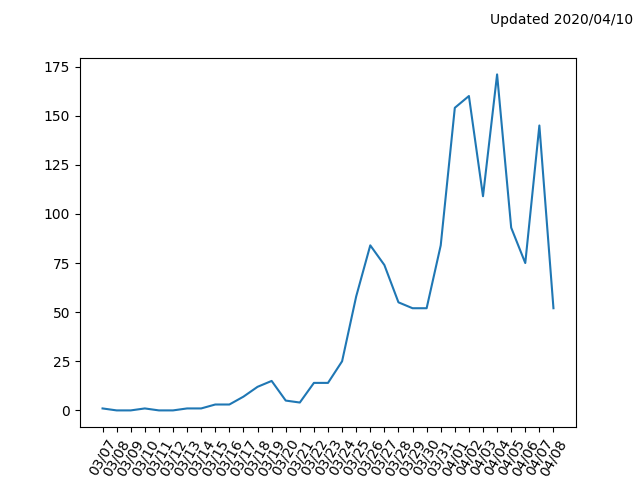
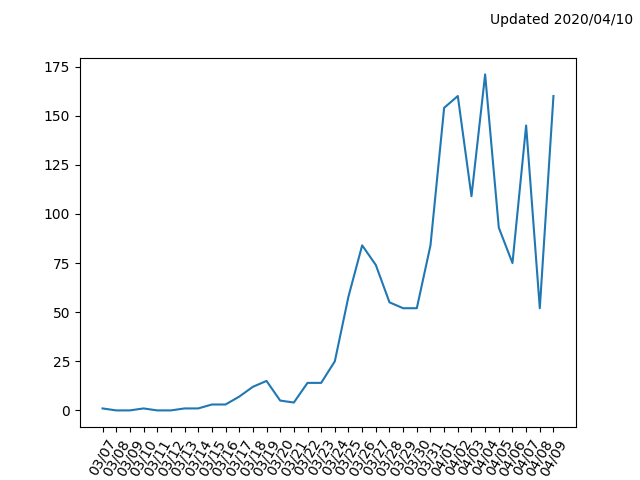
Now defining user agents because State of OK suddenly decided that they don't like Python3.

diff --git a/updatecount.py b/updatecount.py
@@ -2,6 +2,7 @@
 from bs4 import BeautifulSoup
 import urllib.request
 import ssl
+import urllib.request
 
 ssl._create_default_https_context = ssl._create_unverified_context
 # I don't know why this works, but I get an SSL failure if I don't do it.
@@ -14,7 +15,8 @@ with open('covid19counts.json') as f:
     data = json.load(f)
 
 url = 'https://coronavirus.health.ok.gov/'
-content = urllib.request.urlopen(url)
+req = urllib.request.Request(url, headers={'User-Agent': 'Mozilla/5.0'})
+content = urllib.request.urlopen(req)
 
 htmlcontent = content.read()
 

diff --git a/covid19timeline.py b/covid19timeline.py
@@ -32,6 +32,7 @@ with open('covid19counts.json') as f:
 # Get data
 caseCountPerDay = [cumulativeCount[i] - cumulativeCount[i-1] for i in range(1, len(cumulativeCount))]
 dates = [(startingdate + timedelta(days=i)).strftime('%m/%d') for i in range(0, len(caseCountPerDay))]
+#pairs = [(caseCountPerDay[i], dates[i]) for i in range(0, len(caseCountPerDay))]
 
 # Build figure
 fig = plt.figure()
